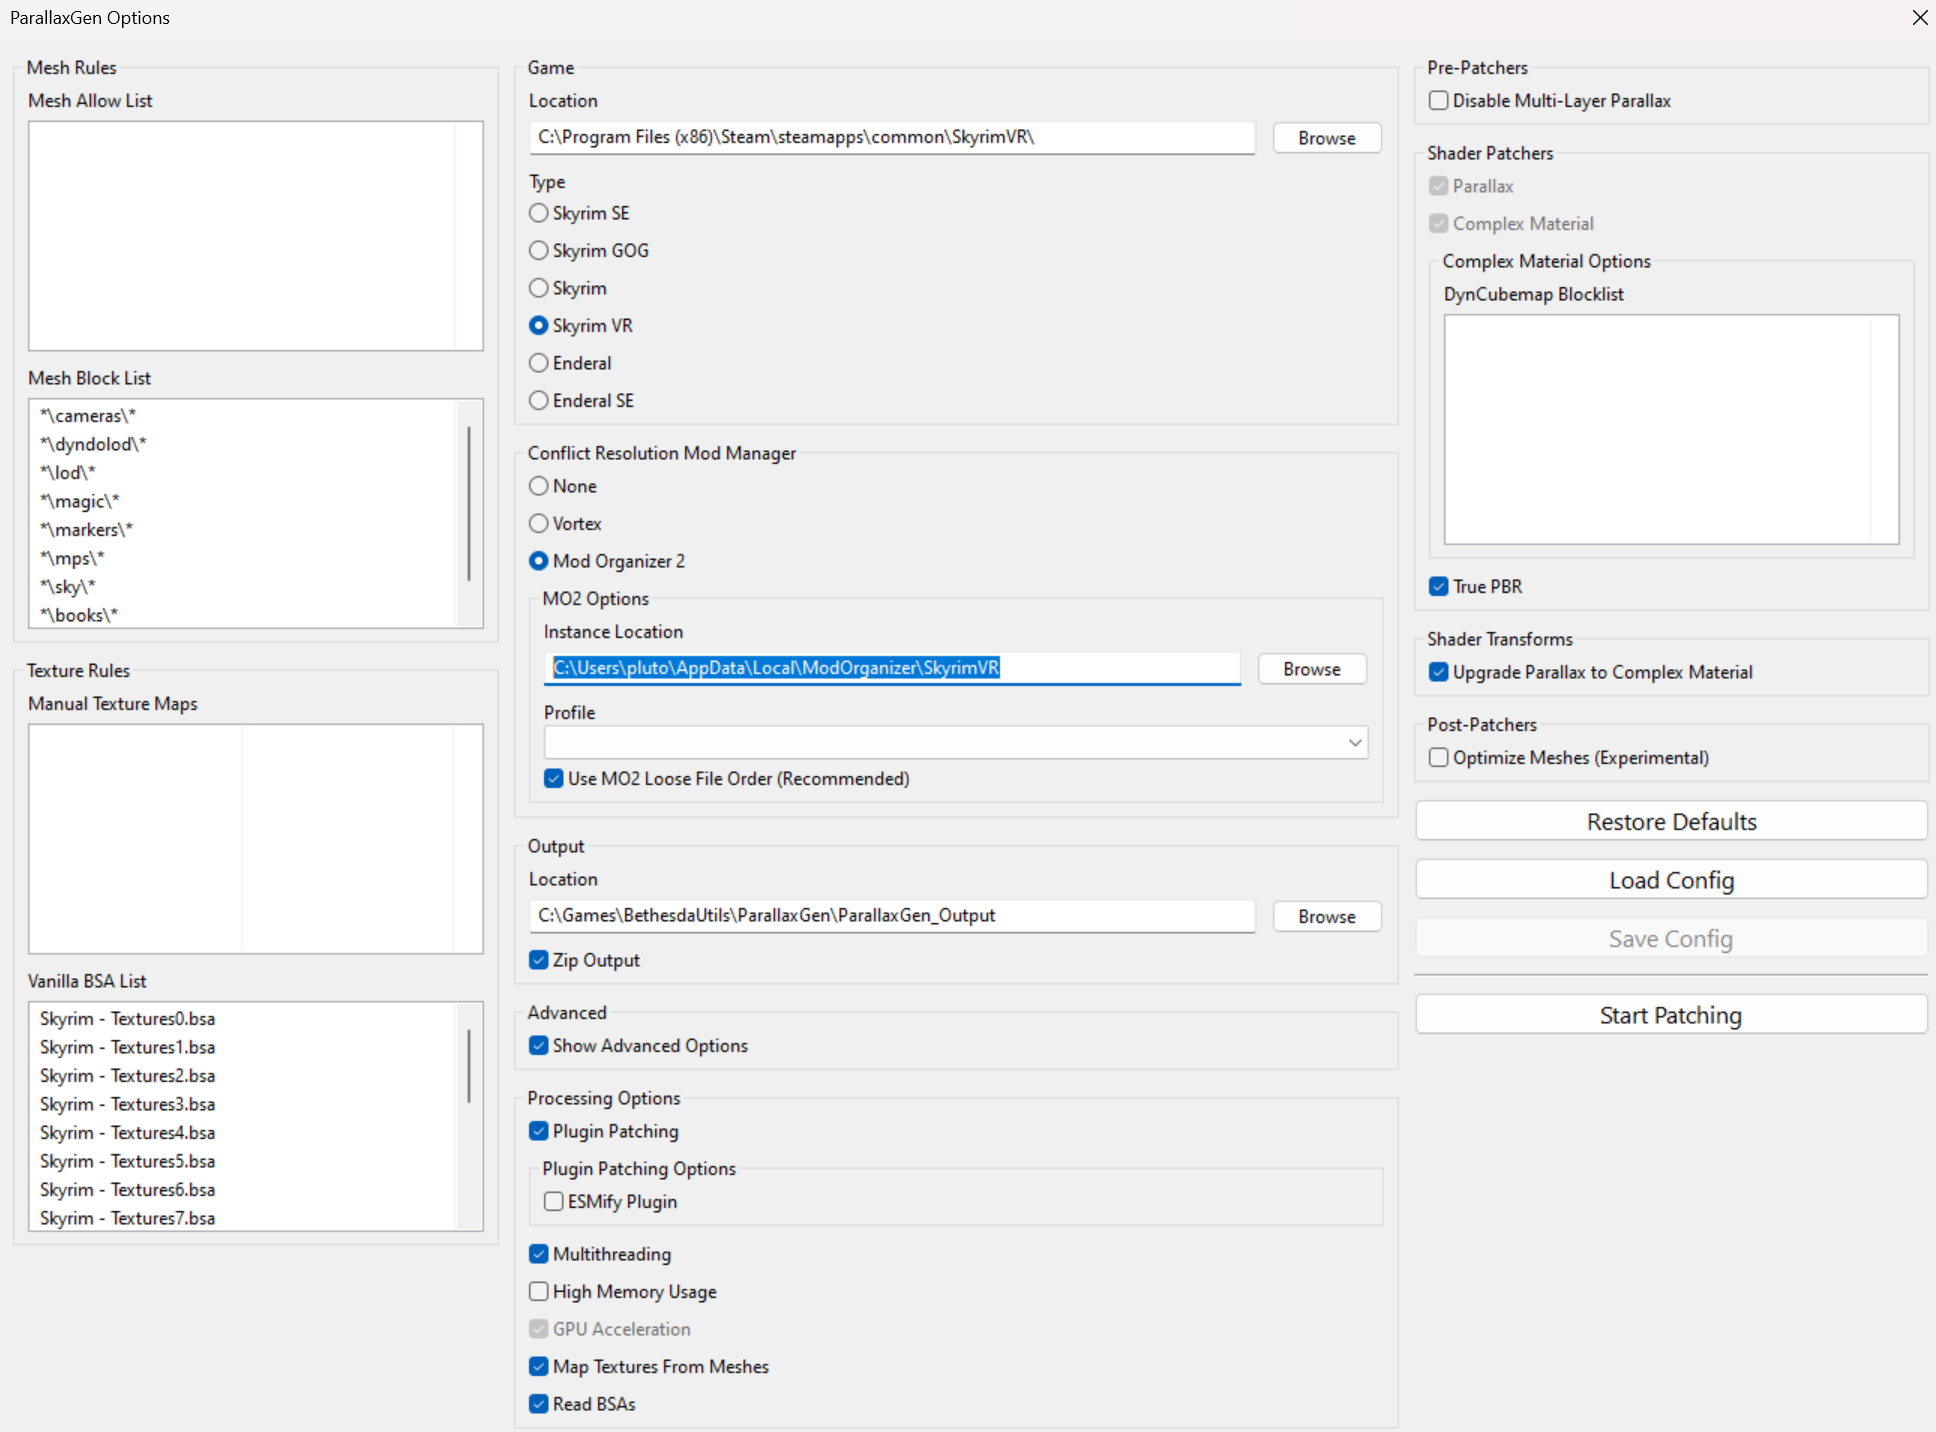
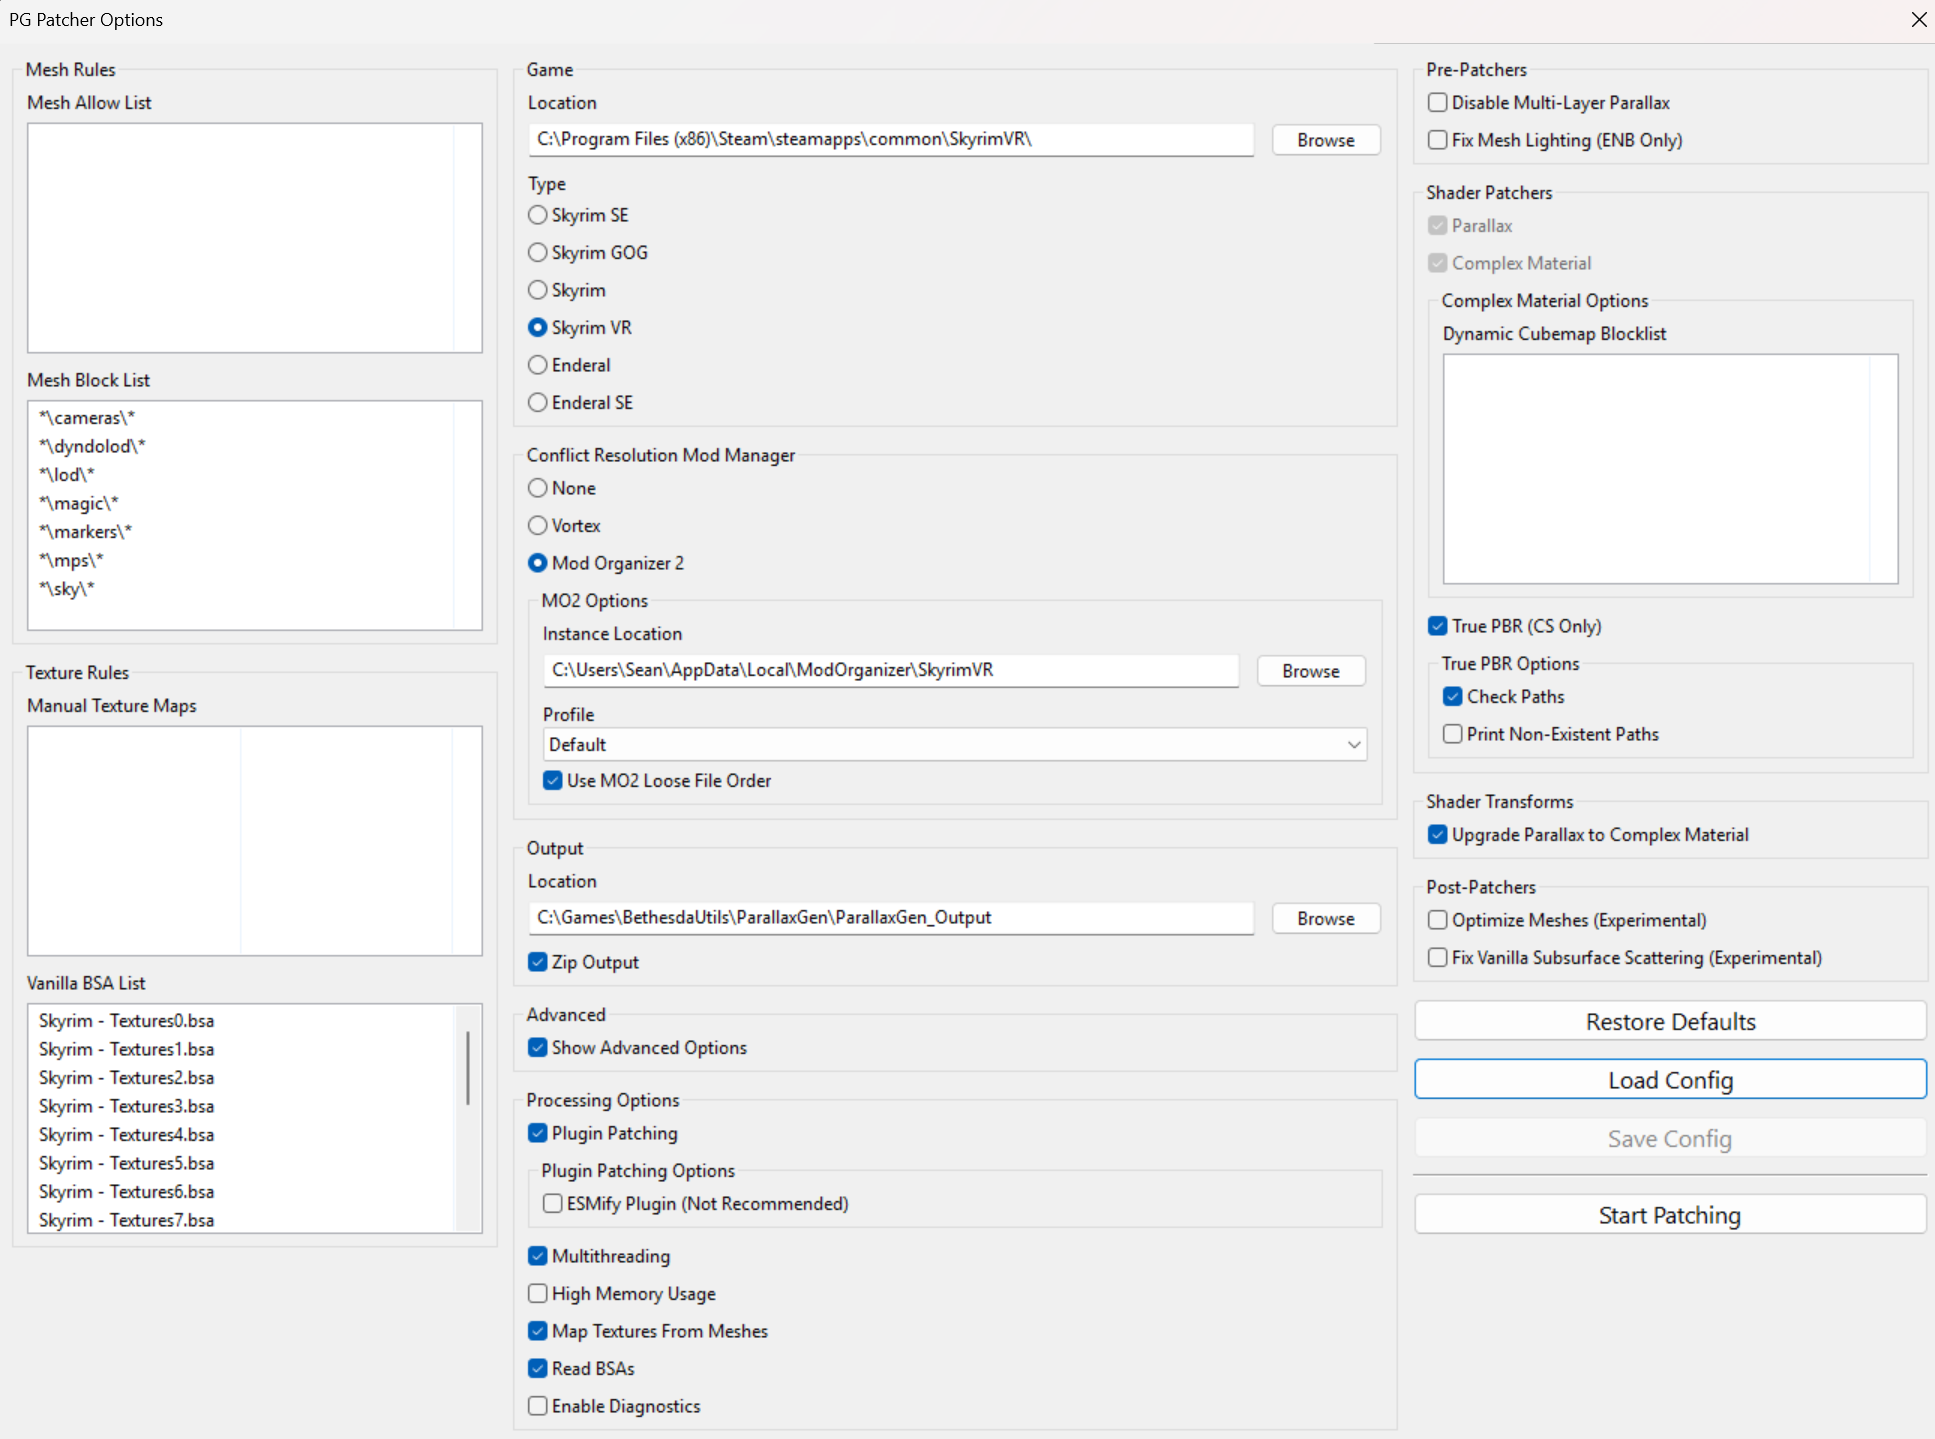
docs: update ParallaxGen instructions

diff --git a/README.md b/README.md
@@ -677,7 +677,9 @@ Since the mod authors use bodyslide group settings inconsistently, you will see 
 
 1. Make sure to build all the body and outfit meshes with Bodyslide before running ParallaxGen.
 1. Launch ParallaxGen.
+1. Set Game Location and Mod Manager.
 1. Click Show Advanced Options.
+1. Enable Use MO2 Loose File Order.
 1. Enable Upgrade Parallax to Complex Material.
 1. Click Save Config.
 1. Click Start Patching. (~3 minutes)
